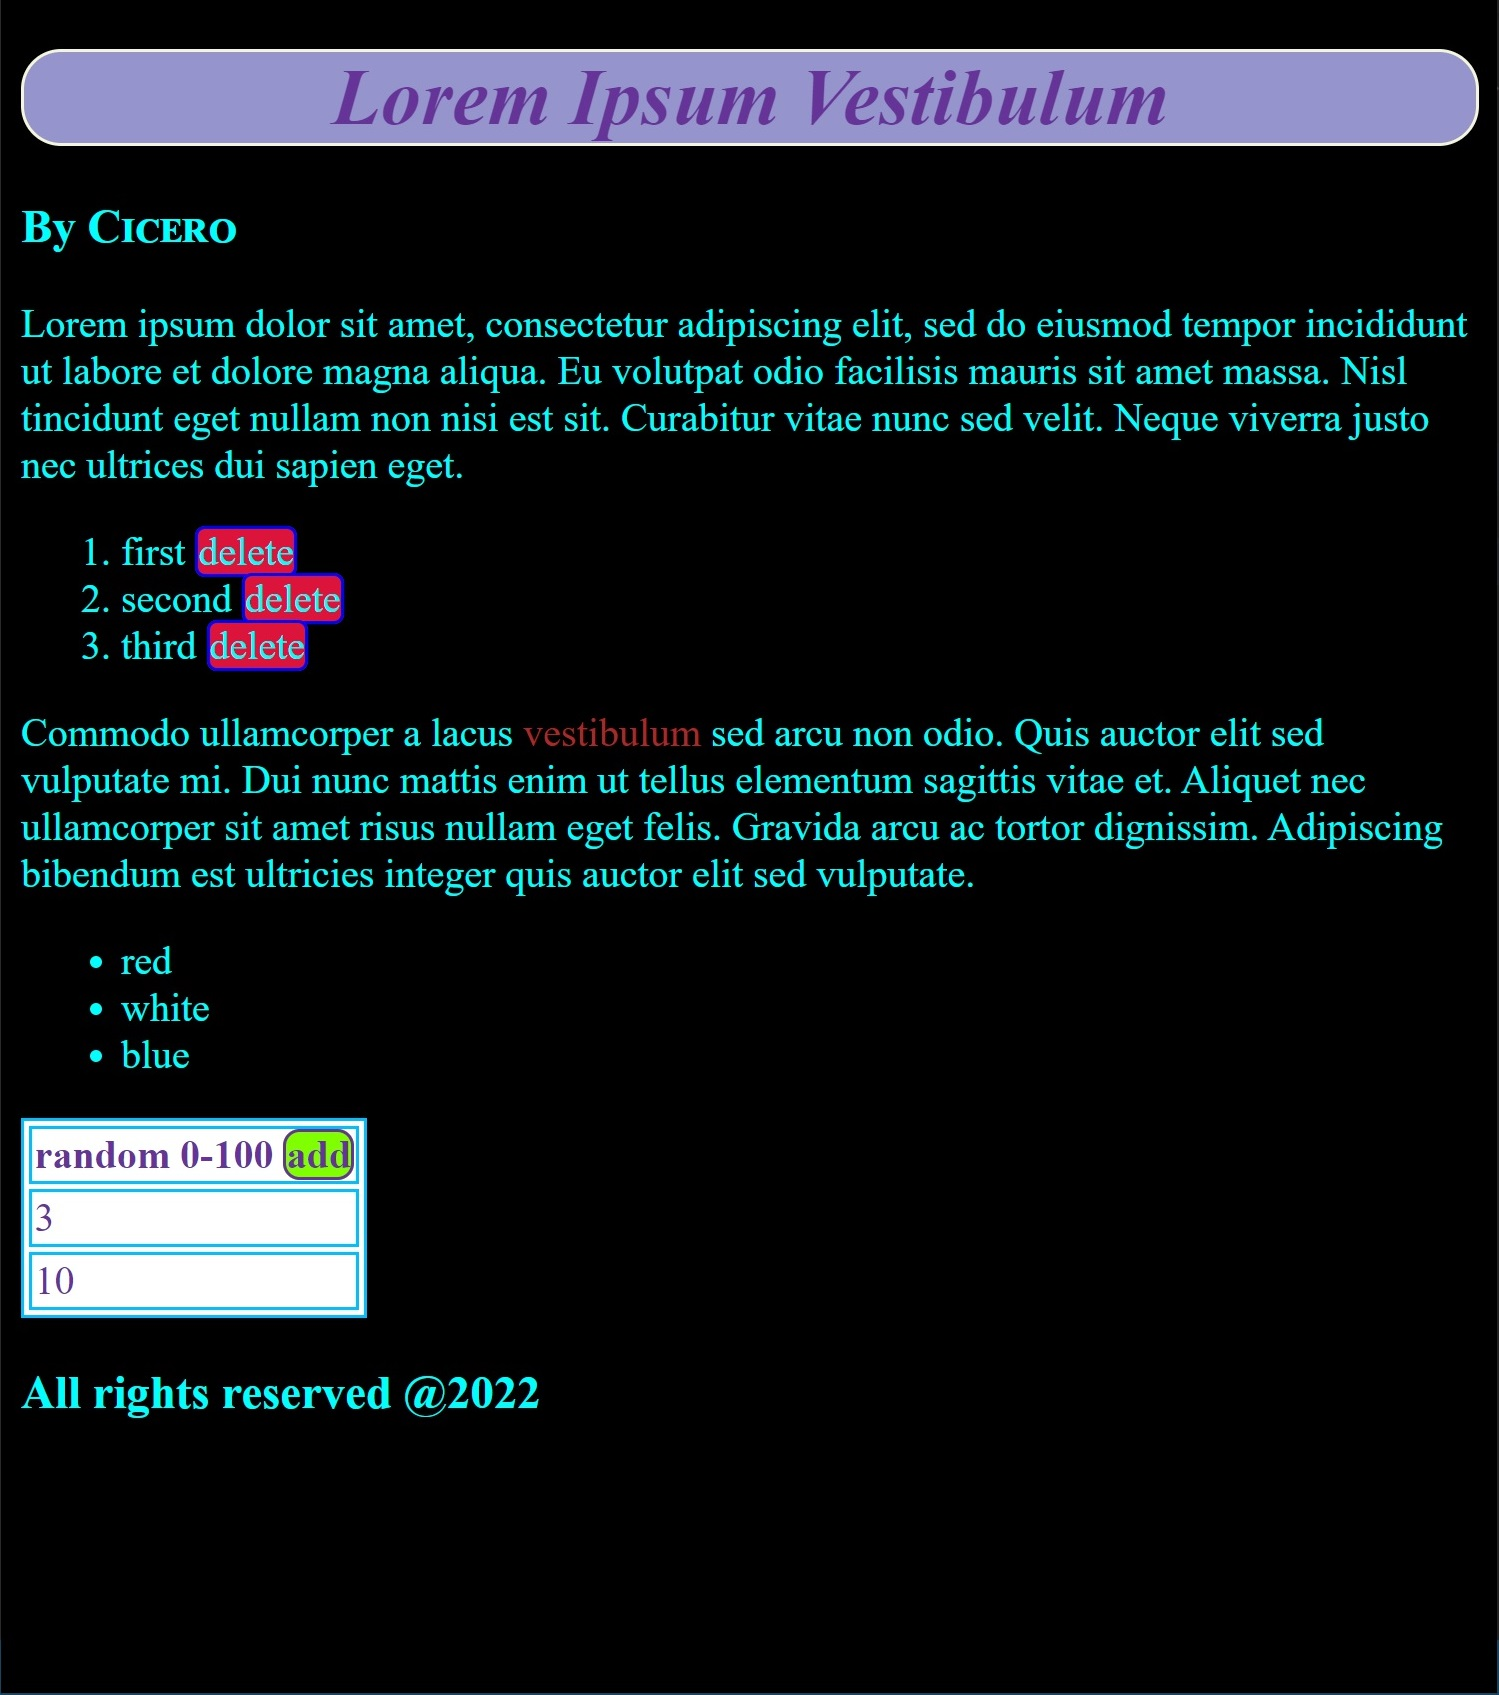
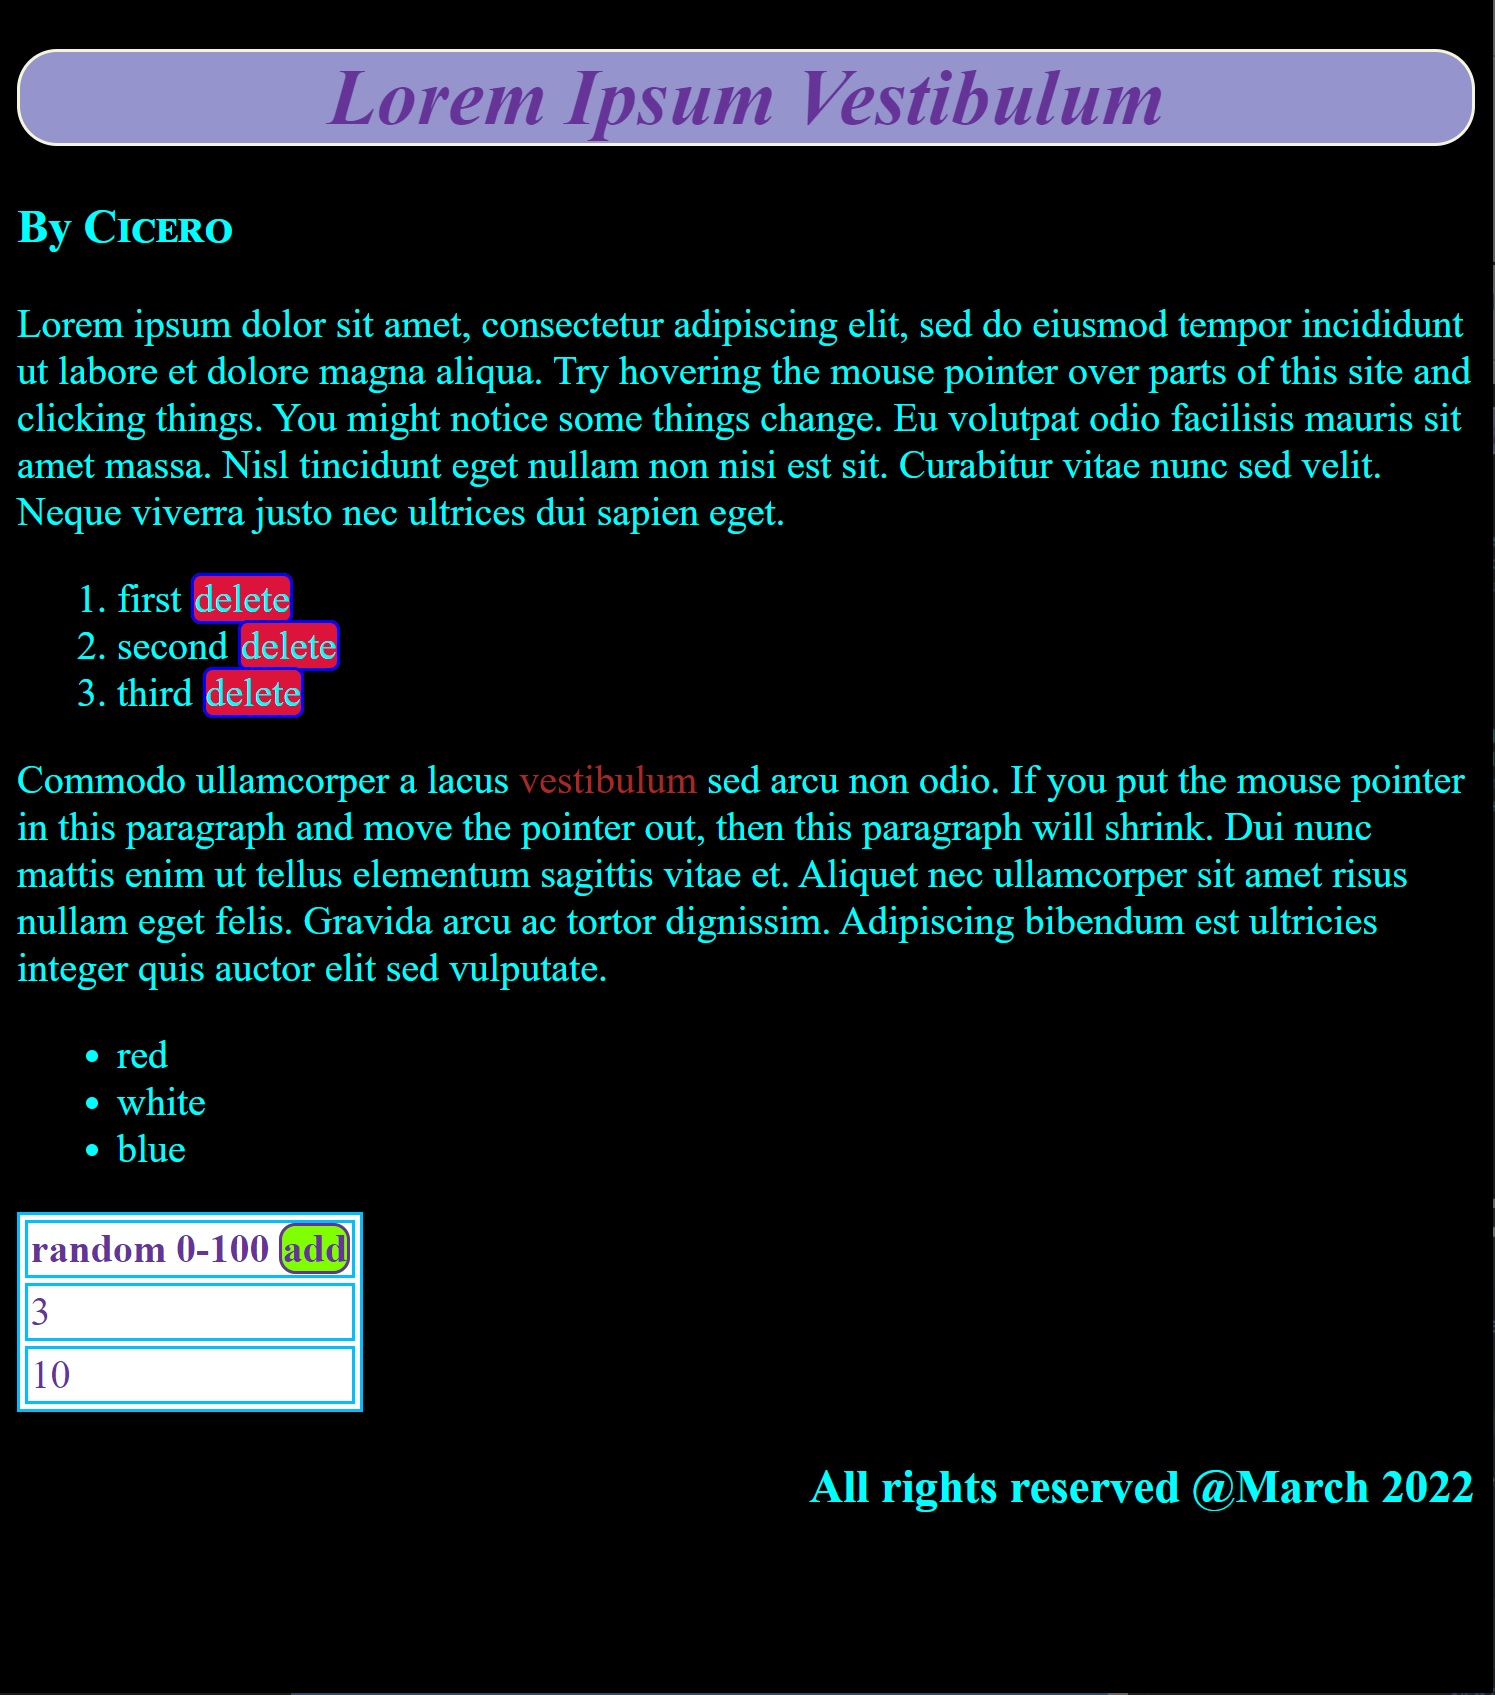
Updated footer and picture

diff --git a/resume.html b/resume.html
@@ -199,7 +199,7 @@
           </div>
         </div>
       </main>
-      <footer>All rights reserved @2022.</footer>
+      <footer>All rights reserved @March 2022.</footer>
     </div>
   </body>
 </html>
